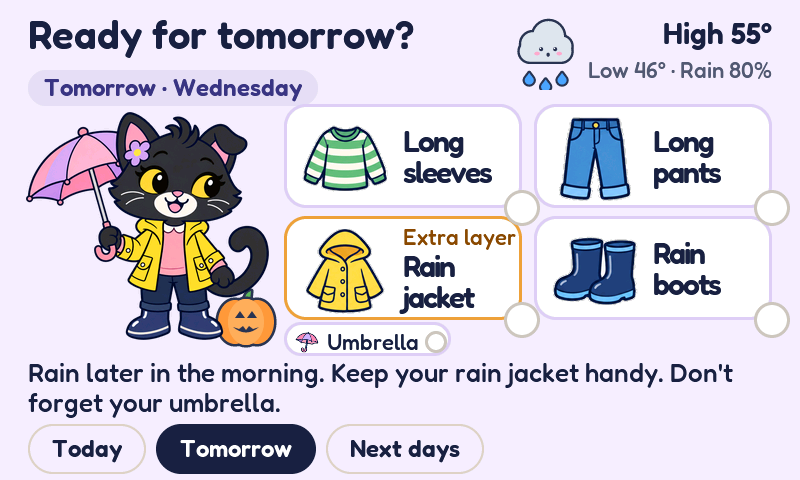
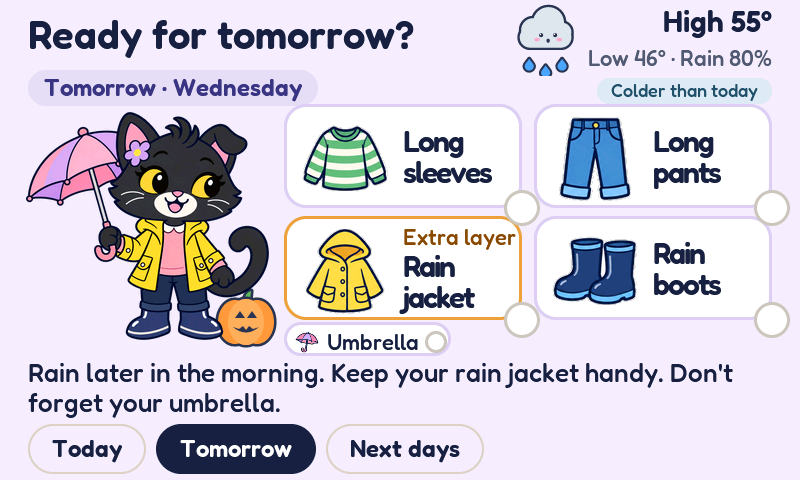
iter-12: restore the colder/warmer than yesterday compare pill
The 2.0 redesign cut the relative temperature comparison; a kid
remembers whether yesterday was hot or cold, so the product speaks
in that signal again. A pill under the High/Low line on the outfit
pages compares the shown day's daily high with the previous day's
(the day before the SHOWN date, verified by date, so the rollover
and stale fetches compare the right pair): |delta| >= 12F is
'A lot', 4-11F plain, within +-3F 'Same as'. Today says 'than
yesterday', Tomorrow 'than today'. Colder is cool blue, warmer is
amber, same is neutral. The pill is display-only, takes the stale
fade on stale screens, and hides when there is no previous day to
compare against. Words only: the generated fonts carry no up/down
arrow glyph. The weather block rides a few px higher to give the
pill its own row; nothing else moves.

Checks: exact pill text asserted against every fixture's own
highs, tint family per tier counted in the pill's band, faded tint
on the stale screen, absence on unavailable and on a new
no-yesterday scenario; dump diff vs iter-11 shows only the added
compare lines. 489 render checks pass.

Changed region(s): [[0.625, 0.0, 0.9688, 0.2188]]

diff --git a/components/wb_ui/ui.c b/components/wb_ui/ui.c
@@ -41,6 +41,16 @@
 #define COL_WARN_TX 0x8A4B00
 #define COL_ACCENT 0xE0457B
 #define COL_TAB_LINE 0xD9D1C2
+/* Compare pill tints (iter-12): cool blue for colder, warm amber for
+ * warmer, quiet neutral for same. None of these is a tab or a status
+ * colour: the pill is a day-chip sibling that only ever talks about
+ * yesterday (or today, on the tomorrow page). */
+#define COL_CMP_COLD_BG 0xD9EAF7
+#define COL_CMP_COLD_TX 0x20506E
+#define COL_CMP_WARM_BG 0xFFE3AE
+#define COL_CMP_WARM_TX 0x7A4A00
+#define COL_CMP_SAME_BG 0xEAE7DE
+#define COL_CMP_SAME_TX 0x545A72
 
 #define C(hex) lv_color_hex(hex)
 
@@ -189,6 +199,7 @@ static lv_obj_t *fc_pippa[3];   /* mini Pippa in each card's day look (iter-07) 
 /* main: bottom bar */
 static lv_obj_t *tab_btn[3], *tab_lbl[3];
 static lv_obj_t *stale_chip, *lbl_stale;
+static lv_obj_t *cmp_pill, *lbl_cmp;   /* iter-12 relative-temperature pill */
 
 /* settings overlay (iter-09: no panel card; the controls sit on the
  * page itself in labelled sections, the info block is label/value rows,
@@ -213,6 +224,8 @@ static struct {
     char title[64];     /* the headline the render actually set (iter-10:
                          * the unavailable screen's headline is a state,
                          * and only the dump can assert on it) */
+    char compare[48];   /* iter-12: the compare pill's text, "" when the
+                         * pill is hidden (no data, or no previous day) */
 } s_dump;
 #endif
 /* Forecast stash: each card's full tile list (read by ui_test_dump). */
@@ -1499,19 +1512,39 @@ static void build_outfit_page(lv_obj_t *scr)
     lbl_chip = label(chip, &font_chip, "");
     lv_obj_center(lbl_chip);
 
-    /* Weather block: icon left of two lines, the block right-aligned to 772. */
+    /* Weather block: icon left of two lines, the block right-aligned to
+     * 772. Iter-12 rides the block a few px higher (icon y4, lines y8
+     * and y46) so the compare pill gets its own row underneath at y78:
+     * above the tile grid (y104), clear of the day chip and the
+     * progress pill on the left, clear of the stale banner's centre. */
     wx_icon = lv_image_create(page_outfit);
-    lv_obj_set_pos(wx_icon, 486, 18);
+    lv_obj_set_pos(wx_icon, 486, 4);
     lbl_wx1 = label(page_outfit, &font_label, "");
     lv_obj_set_style_text_color(lbl_wx1, C(COL_INK), 0);
     lv_obj_set_width(lbl_wx1, 206);
     lv_obj_set_style_text_align(lbl_wx1, LV_TEXT_ALIGN_RIGHT, 0);
-    lv_obj_set_pos(lbl_wx1, 566, 20);
+    lv_obj_set_pos(lbl_wx1, 566, 8);
     lbl_wx2 = label(page_outfit, &font_small, "");
     lv_obj_set_style_text_color(lbl_wx2, C(COL_INK2), 0);
     lv_obj_set_width(lbl_wx2, 206);
     lv_obj_set_style_text_align(lbl_wx2, LV_TEXT_ALIGN_RIGHT, 0);
-    lv_obj_set_pos(lbl_wx2, 566, 58);
+    lv_obj_set_pos(lbl_wx2, 566, 46);
+
+    /* Compare pill (iter-12): "Colder than yesterday" and kin, a
+     * display-only sibling of the day chip. render() fills, tints,
+     * sizes and positions it (right-aligned under the High/Low line);
+     * it stays hidden whenever there is no honest comparison. It is
+     * never clickable and never part of check-off. */
+    cmp_pill = box(page_outfit);
+    lv_obj_set_style_bg_opa(cmp_pill, LV_OPA_COVER, 0);
+    lv_obj_set_style_radius(cmp_pill, LV_RADIUS_CIRCLE, 0);
+    lv_obj_set_style_pad_hor(cmp_pill, 14, 0);
+    lv_obj_set_style_pad_ver(cmp_pill, 0, 0);
+    lv_obj_set_size(cmp_pill, 10, 26);
+    lv_obj_set_pos(cmp_pill, 700, 78);
+    lbl_cmp = label(cmp_pill, &font_tiny, "");
+    lv_obj_center(lbl_cmp);
+    hide(cmp_pill);
 
     build_cat(page_outfit);
     build_tiles(page_outfit);
@@ -2174,6 +2207,12 @@ static void render(void)
      * while the data was fresh stay recorded (they return with the
      * outfit if fresh data for the same date arrives), but the
      * stale screen itself neither takes nor certifies them. */
+    /* Iter-12 compare pill state for this render (filled by the
+     * weather block below; the stale treatment reuses the geometry to
+     * keep the banner clear of the pill). */
+    char cmp_text[48] = "";
+    int cmp_x = 772, cmp_w = 0;
+    bool cmp_shown = false;
     bool stale_on = avail && bucket == 1;
     s_stale = stale_on;
     bool all_done = check_mask != 0 && !stale_on && (s_checks & check_mask) == check_mask;
@@ -2275,8 +2314,57 @@ static void render(void)
         lv_obj_set_x(lbl_wx2, 772 - tw);
         lv_obj_set_width(lbl_wx2, tw);
         lv_obj_set_x(wx_icon, 772 - tw - 80);
+        /* Relative temperature (iter-12): the shown day's daily HIGH
+         * against the previous day's daily HIGH, compared in
+         * Fahrenheit. The previous day is the day before the SHOWN
+         * date, verified by date: the day before days[0] is the
+         * separately-kept yesterday, any other shown day compares
+         * against the forecast entry right before it. That keeps the
+         * after-midnight rollover honest (a Wednesday screen fetched
+         * Tuesday night compares against Tuesday, which the kid
+         * remembers as yesterday). No previous day, no pill: the UI
+         * never guesses. Words only: the generated fonts carry no
+         * up/down arrow glyph. */
+        {
+            long shown_d = days_from_civil(o.year, o.month, o.day);
+            int ti = -1;
+            for (int i = 0; i < s_wx.ndays; i++) {
+                if (days_from_civil(s_wx.days[i].year, s_wx.days[i].month,
+                                    s_wx.days[i].day) == shown_d) { ti = i; break; }
+            }
+            const wx_day_t *prev = NULL;
+            if (ti > 0) {
+                prev = &s_wx.days[ti - 1];
+            } else if (ti == 0 && s_wx.has_yday &&
+                       days_from_civil(s_wx.yday.year, s_wx.yday.month,
+                                       s_wx.yday.day) == shown_d - 1) {
+                prev = &s_wx.yday;
+            }
+            if (prev && days_from_civil(prev->year, prev->month, prev->day) == shown_d - 1) {
+                float d = wx_to_f(&s_wx, o.hi) - wx_to_f(&s_wx, prev->tmax);
+                const char *ref = page == 0 ? "yesterday" : "today";
+                uint32_t bg, tx;
+                if (d <= -12.0f)     { snprintf(cmp_text, sizeof cmp_text, "A lot colder than %s", ref); bg = COL_CMP_COLD_BG; tx = COL_CMP_COLD_TX; }
+                else if (d <= -4.0f) { snprintf(cmp_text, sizeof cmp_text, "Colder than %s", ref);       bg = COL_CMP_COLD_BG; tx = COL_CMP_COLD_TX; }
+                else if (d < 4.0f)   { snprintf(cmp_text, sizeof cmp_text, "Same as %s", ref);           bg = COL_CMP_SAME_BG; tx = COL_CMP_SAME_TX; }
+                else if (d < 12.0f)  { snprintf(cmp_text, sizeof cmp_text, "Warmer than %s", ref);       bg = COL_CMP_WARM_BG; tx = COL_CMP_WARM_TX; }
+                else                 { snprintf(cmp_text, sizeof cmp_text, "A lot warmer than %s", ref); bg = COL_CMP_WARM_BG; tx = COL_CMP_WARM_TX; }
+                cmp_w = text_w(cmp_text, &font_tiny) + 28;
+                cmp_x = 772 - cmp_w;
+                cmp_shown = true;
+                lv_label_set_text(lbl_cmp, cmp_text);
+                lv_obj_set_style_text_color(lbl_cmp, C(tx), 0);
+                lv_obj_set_style_bg_color(cmp_pill, C(bg), 0);
+                lv_obj_set_size(cmp_pill, cmp_w, 26);
+                lv_obj_set_pos(cmp_pill, cmp_x, 78);
+                show_obj(cmp_pill);
+            } else {
+                hide(cmp_pill);
+            }
+        }
     } else {
         hide(wx_icon);
+        hide(cmp_pill);
         lv_label_set_text(lbl_wx1, "--");
         lv_label_set_text(lbl_wx2, "");
     }
@@ -2477,10 +2565,25 @@ static void render(void)
     for (int j = 0; j < X_SLOTS; j++) {
         lv_obj_set_style_opa(xchip[j], stale_on ? 185 : LV_OPA_COVER, 0);
     }
+    /* The compare pill derives from the same fetch as the rest of the
+     * stage, so on a stale screen it takes the same fade (iter-12). */
+    lv_obj_set_style_opa(cmp_pill, stale_on ? 185 : LV_OPA_COVER, 0);
     if (stale_on) {
         lv_label_set_text(lbl_stale_big, "From earlier today");
-        lv_obj_set_size(stale_banner, text_w("From earlier today", &font_chip) + 44, 44);
-        lv_obj_set_pos(stale_banner, 284, 56);
+        int bw = text_w("From earlier today", &font_chip) + 44;
+        int bx = 284;
+        /* A long compare pill ("A lot colder than yesterday") reaches
+         * into the banner's centre slot; slide the banner left just
+         * enough to clear it, never past x240 (iter-12). The shipped
+         * stale scenario's pill starts right of the banner, so the
+         * banner keeps its panel-approved home there. */
+        if (cmp_shown && cmp_x < bx + bw + 8) {
+            bx = cmp_x - bw - 8;
+            if (bx < 240) bx = 240;
+            if (bx > 284) bx = 284;
+        }
+        lv_obj_set_size(stale_banner, bw, 44);
+        lv_obj_set_pos(stale_banner, bx, 56);
         lv_obj_set_width(lbl_stale_big, LV_SIZE_CONTENT);
         lv_obj_center(lbl_stale_big);
         show_obj(stale_banner);
@@ -2569,6 +2672,7 @@ static void render(void)
     snprintf(s_dump.shown, sizeof(s_dump.shown), "%s", avail ? lv_label_get_text(lbl_advice) : "");
     snprintf(s_dump.wx1, sizeof(s_dump.wx1), "%s", lv_label_get_text(lbl_wx1));
     snprintf(s_dump.title, sizeof(s_dump.title), "%s", lv_label_get_text(lbl_title));
+    snprintf(s_dump.compare, sizeof(s_dump.compare), "%s", cmp_text);
 #endif
 }
 
@@ -2742,6 +2846,7 @@ void ui_test_dump(const char *path)
             s_dump.advice, s_dump.shown, s_dump.wx1, s_dump.wx_icon, s_dump.stale_banner ? 1 : 0);
     fprintf(f, "stale_checks=%s\nchecks=%d\n", s_dump.checks_locked ? "disabled" : "enabled", (int)s_checks);
     fprintf(f, "title=%s\n", s_dump.title);
+    fprintf(f, "compare=%s\n", s_dump.compare);
     for (int i = 0; i < 3; i++) {
         fprintf(f, "fc%d_tiles=", i);
         for (int k = 0; k < s_fc_n[i]; k++) {

diff --git a/sim/check_renders.py b/sim/check_renders.py
@@ -880,7 +880,8 @@ def main():
               "25_stale", "25c_stale_tapped", "26_unavailable",
               "26b_unavailable_tomorrow", "27_rollover",
               "28_snow", "29_hot", "30_storm", "31_halloween", "32_pink_cat",
-              "34_long_text", "35_hanukkah", "36_bike_bus", "37_dress_day", "38_warm_day")
+              "34_long_text", "35_hanukkah", "36_bike_bus", "37_dress_day", "38_warm_day",
+              "39_no_yesterday")
     dumps = {n: dump(n) for n in DUMPED}
 
     # The dress bound (iter-09 fix 1, panel round 7's headline): the
@@ -971,6 +972,87 @@ def main():
           f"25_stale: stale banner shown (stale_banner={dumps['25_stale']['stale_banner']})")
     check(dumps["20_morning"]["stale_banner"] == "0" and dumps["26_unavailable"]["stale_banner"] == "0",
           "fresh and unavailable screens show no stale banner")
+
+    # Compare pill (iter-12): the shown day's high against the day
+    # before the SHOWN date, in the kid's own terms. A kid remembers
+    # whether yesterday was hot or cold; the numbers across days mean
+    # nothing to them, so the product speaks in the relative signal.
+    # Tiers: |delta| >= 12F "A lot ...", 4..11F plain, within +-3F
+    # "Same as ...". The Today page says "than yesterday", the
+    # Tomorrow page "than today". Every expectation below is the
+    # fixture's own daily highs, differenced by hand:
+    #   brief week: Mon 60, Tue 64, Wed 55 (yday is Monday)
+    #   snow 38->31, hot 78->92, storm 88->90, halloween 55->48,
+    #   hanukkah (renders today) 41 -> 39, bike-bus Thu 74 -> Fri 52,
+    #   dress 62->62, warm 70->73, long-text 55->66.
+    CMP = {
+        "20_morning": "Warmer than yesterday",        # 64 vs 60, +4
+        "21_evening": "Colder than today",            # 55 vs 64, -9
+        "22_evening_2_checked": "Colder than today",
+        "23_evening_all_done": "Colder than today",
+        "25_stale": "Warmer than yesterday",          # same fetch, faded
+        "25c_stale_tapped": "Warmer than yesterday",
+        "26_unavailable": "",                         # no data, no pill
+        "26b_unavailable_tomorrow": "",
+        "27_rollover": "Colder than yesterday",       # shown Wed 55 vs Tue 64
+        "28_snow": "Colder than yesterday",           # 31 vs 38, -7
+        "29_hot": "A lot warmer than yesterday",      # 92 vs 78, +14
+        "30_storm": "Same as yesterday",              # 90 vs 88, +2
+        "31_halloween": "Colder than yesterday",      # 48 vs 55, -7
+        "32_pink_cat": "Warmer than yesterday",
+        "34_long_text": "Warmer than yesterday",      # 66 vs 55, +11: plain tier
+        "35_hanukkah": "Same as yesterday",           # renders the today page: 39 vs 41, -2
+        "36_bike_bus": "A lot colder than yesterday", # 52 vs 74, -22
+        "37_dress_day": "Same as yesterday",          # 62 vs 62
+        "38_warm_day": "Same as yesterday",           # 73 vs 70, +3
+        "39_no_yesterday": "",                        # no yesterday in the payload
+    }
+    for name, want in CMP.items():
+        check(dumps[name]["compare"] == want,
+              f"{name}: compare pill says {want!r} (dump has {dumps[name]['compare']!r})")
+    check(dump("24_next_days")["compare"] == "Warmer than yesterday",
+          "24_next_days: the forecast page carries the morning's compare state")
+
+    # Pill tints by tier, counted in the pill's own band under the
+    # High/Low line (y78..103, right-aligned to x772; the widest pill
+    # starts at x488). Colder is cool blue, warmer is warm amber,
+    # same is quiet neutral; the stale pill wears the faded blend of
+    # its tint over the page ground, like the rest of the stage.
+    PILL_BAND = (480, 76, 772, 106)
+
+    def pill_img(name):
+        return Image.open(os.path.join(OUT, name + ".png"))
+
+    def is_cmp_cold(r, g, b):
+        return 205 < r < 230 and 225 < g < 245 and b > 238
+
+    def is_cmp_warm(r, g, b):
+        return r > 245 and 218 < g < 236 and 165 < b < 185
+
+    def is_cmp_same(r, g, b):
+        return 226 < r < 242 and 223 < g < 239 and 214 < b < 230
+
+    def is_cmp_warm_faded(r, g, b):
+        return r > 245 and 226 < g < 239 and 184 < b < 200
+
+    check(count_where(pill_img("36_bike_bus"), PILL_BAND, is_cmp_cold) > 3000,
+          "36_bike_bus: a-lot-colder pill wears the cool blue tint")
+    check(count_where(pill_img("27_rollover"), PILL_BAND, is_cmp_cold) > 3000,
+          "27_rollover: colder pill wears the cool blue tint")
+    check(count_where(pill_img("20_morning"), PILL_BAND, is_cmp_warm) > 2500,
+          "20_morning: warmer pill wears the warm amber tint")
+    check(count_where(pill_img("29_hot"), PILL_BAND, is_cmp_warm) > 3000,
+          "29_hot: a-lot-warmer pill wears the warm amber tint")
+    check(count_where(pill_img("30_storm"), PILL_BAND, is_cmp_same) > 2000,
+          "30_storm: same pill wears the neutral tint")
+    check(count_where(pill_img("25_stale"), (545, 76, 772, 106), is_cmp_warm_faded) > 2500
+          and count_where(pill_img("25_stale"), (545, 76, 772, 106), is_cmp_warm) < 300,
+          "25_stale: the compare pill takes the stale fade with the rest of the stage")
+    for name in ("26_unavailable", "39_no_yesterday"):
+        n_tint = sum(count_where(pill_img(name), PILL_BAND, p)
+                     for p in (is_cmp_cold, is_cmp_warm, is_cmp_same, is_cmp_warm_faded))
+        check(n_tint < 200,
+              f"{name}: no compare pill pixels (no data / no yesterday) [{n_tint}]")
 
     # Storm header icon (iter-09 fix 2): when the day's story
     # includes storms, the header icon is the icon set's thunder

diff --git a/sim/make_scenarios.py b/sim/make_scenarios.py
@@ -249,7 +249,7 @@ S["snow_day"]["sim_clock"] = "2027-01-15T07:35"
 # Hot summer day: shorts, water bottle, sunglasses.
 S["hot_summer"] = build(
     "2027-07-12", "13:00", {"t": 89.4, "f": 93.0, "day": 1, "code": 0},
-    (1, 84, 70, 10, 8.0, 11.0), [(0, 92, 74, 5, 9.1, 13.0), (2, 88, 72, 10, 8.4, 10.0), (95, 85, 70, 65, 6.2, 5.0),
+    (1, 78, 70, 10, 8.0, 11.0), [(0, 92, 74, 5, 9.1, 13.0), (2, 88, 72, 10, 8.4, 10.0), (95, 85, 70, 65, 6.2, 5.0),
                                  (1, 86, 69, 5, 8.8, 12.0)],
     lambda i: 0 if i < 24 else (2 if i < 48 else (95 if 62 <= i <= 66 else 3) if i < 72 else 1),
     lambda i: 0 if i < 48 else (65 if 60 <= i <= 67 else 10),
@@ -335,6 +335,23 @@ S["long_text"] = build(
     lambda i: 0 if i < 48 else 10,
     sunrise=7, sunset=17, feels_delta=-3)
 S["long_text"]["sim_clock"] = "2026-11-10T07:35"
+
+# Yesterday's high in hot_summer is 78 (above) on purpose: today is
+# 92, a +14 jump, so the set covers the "A lot warmer than yesterday"
+# tier of the iter-12 compare pill. Yesterday feeds nothing else: the
+# parser drops pre-today hours and the outfit never reads yday, so no
+# prescription changes.
+
+# Iter-12 honest absence: a payload with NO yesterday in it (a first
+# boot, or a fetch that carried forecast days only). The compare pill
+# must hide rather than guess, so every daily array drops its
+# yesterday entry and every hourly array its yesterday hours.
+_no_yday = json.loads(json.dumps(S["mild_may"]))
+for _key in _no_yday["daily"]:
+    _no_yday["daily"][_key] = _no_yday["daily"][_key][1:]
+for _key in _no_yday["hourly"]:
+    _no_yday["hourly"][_key] = _no_yday["hourly"][_key][24:]
+S["mild_no_yday"] = _no_yday
 
 
 for name, data in S.items():

diff --git a/sim/sim_main.c b/sim/sim_main.c
@@ -338,6 +338,14 @@ int main(int argc, char **argv)
     save(out, "38_warm_day");
     dump(out, "38_warm_day");
 
+    /* Iter-12: a payload with no yesterday in it (first boot, partial
+     * fetch). The outfit still prescribes, but the compare pill must
+     * stay hidden: there is no honest comparison to show. */
+    load(sc, "mild_no_yday");
+    show();
+    save(out, "39_no_yesterday");
+    dump(out, "39_no_yesterday");
+
     ui_show_wifi_error("HomeWiFi", NULL);
     save(out, "10_wifi_error");
 
